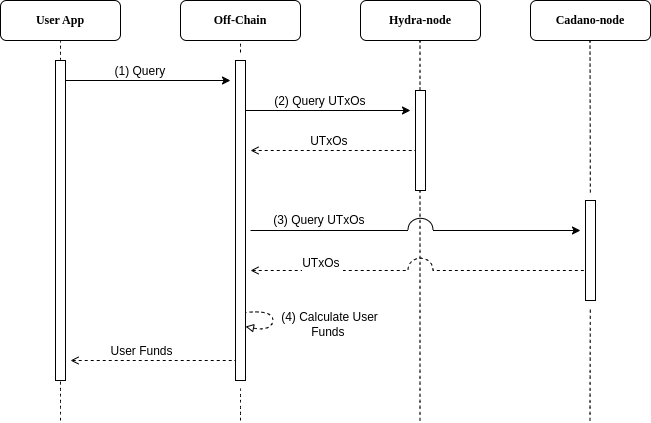
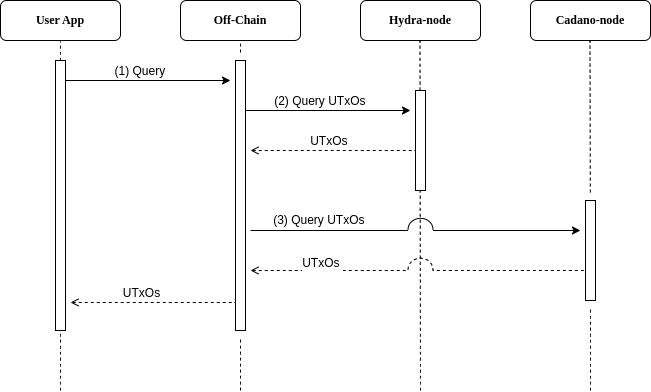
Updates Query Funds use case

diff --git a/doc/requirements_and_design.md b/doc/requirements_and_design.md
@@ -60,11 +60,11 @@ Context: An Admin wants to collect User deposits and open the hydra head
 Context: A User or Merchant wants to know how much funds they have in the protocol
 
 - The backend receives a request with the user or merchant address (1)
-- The backend queries L2 and gets the funds UTxO and the withdraw UTxOs if any (2)
+- The backend queries L2 and gets the funds UTxO (2)
 - The backend queries L1 and gets a list of user deposit UTxOs (3)
-- The backend returns the amount of ADAs that are pending deposit, ready to use and pending withdrawal (4)
+- The backend returns the UTxOs that are pending deposit and ready to use
 
-![OpenHeadDiagram](img/diagram-open-head.png)
+![OpenHeadDiagram](img/diagram-query-funds.png)
 
 ### Use case: Pay merchant
 
